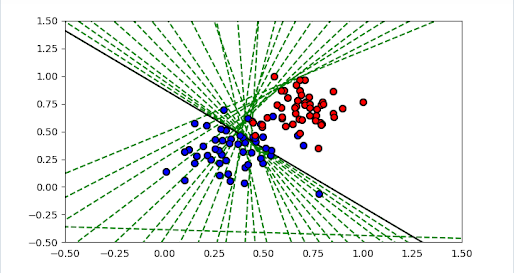
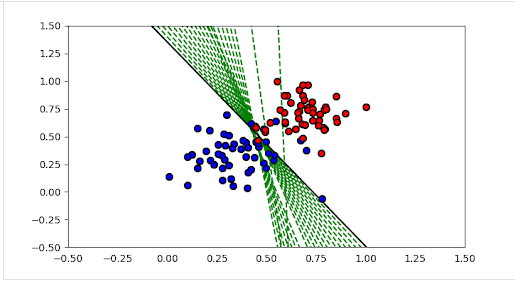
Add Preceptron

diff --git a/Perceptron Algorithm/Perceptron.py b/Perceptron Algorithm/Perceptron.py
@@ -1,0 +1,51 @@
+import numpy as np
+# Setting the random seed, feel free to change it and see different solutions.
+np.random.seed(42)
+
+def stepFunction(t):
+    if t >= 0:
+        return 1
+    return 0
+
+def prediction(X, W, b):
+    return stepFunction((np.matmul(X,W)+b)[0])
+
+# TODO: Fill in the code below to implement the perceptron trick.
+# The function should receive as inputs the data X, the labels y,
+# the weights W (as an array), and the bias b,
+# update the weights and bias W, b, according to the perceptron algorithm,
+# and return W and b.
+def perceptronStep(X, y, W, b, learn_rate = 0.01):
+
+    for i,it in enumerate(y):
+        yhat=prediction(X[i],W,b)
+        error=y[i]-yhat
+        if error==1:
+            W[0]=W[0]+(learn_rate*X[i][0])
+            W[1]=W[1]+(learn_rate*X[i][1])
+        elif error==-1:
+            W[0]=W[0]-(learn_rate*X[i][0])
+            W[1]=W[1]-(learn_rate*X[i][1])
+
+            b=b-learn_rate
+    # Fill in code
+    return W, b
+    
+# This function runs the perceptron algorithm repeatedly on the dataset,
+# and returns a few of the boundary lines obtained in the iterations,
+# for plotting purposes.
+# Feel free to play with the learning rate and the num_epochs,
+# and see your results plotted below.
+def trainPerceptronAlgorithm(X, y, learn_rate = 0.01, num_epochs = 25):
+    x_min, x_max = min(X.T[0]), max(X.T[0])
+    y_min, y_max = min(X.T[1]), max(X.T[1])
+    W = np.array(np.random.rand(2,1))
+    b = np.random.rand(1)[0] + x_max
+    # These are the solution lines that get plotted below.
+    boundary_lines = []
+    for i in range(num_epochs):
+        # In each epoch, we apply the perceptron step.
+        W, b = perceptronStep(X, y, W, b, learn_rate)
+        boundary_lines.append((-W[0]/W[1], -b/W[1]))
+    return boundary_lines
+
